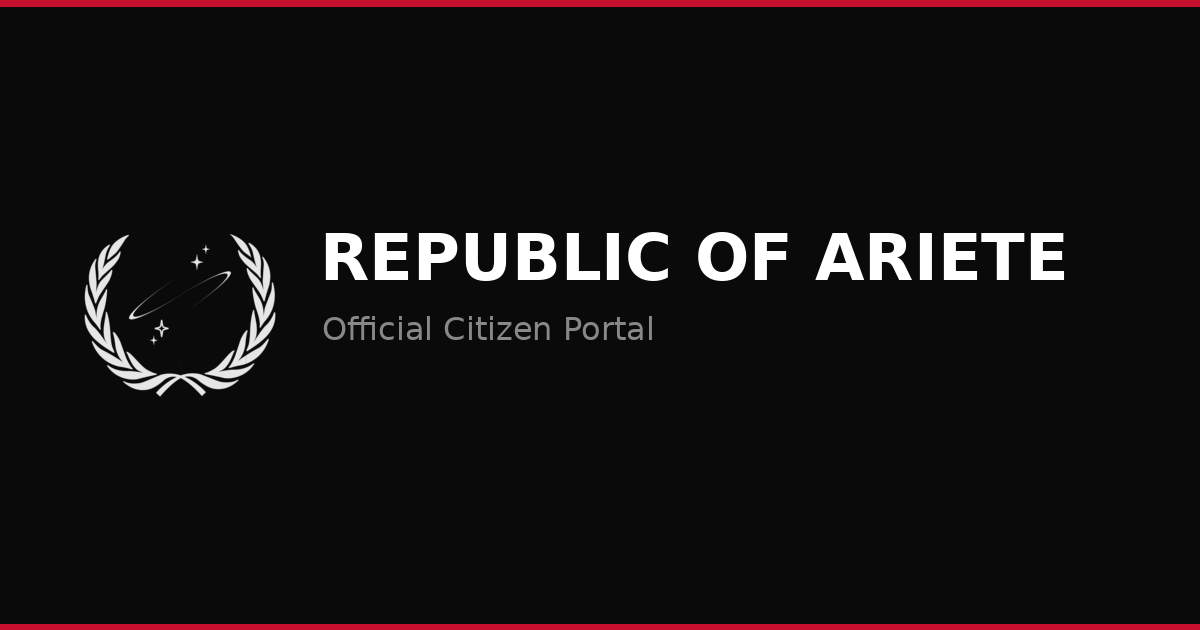
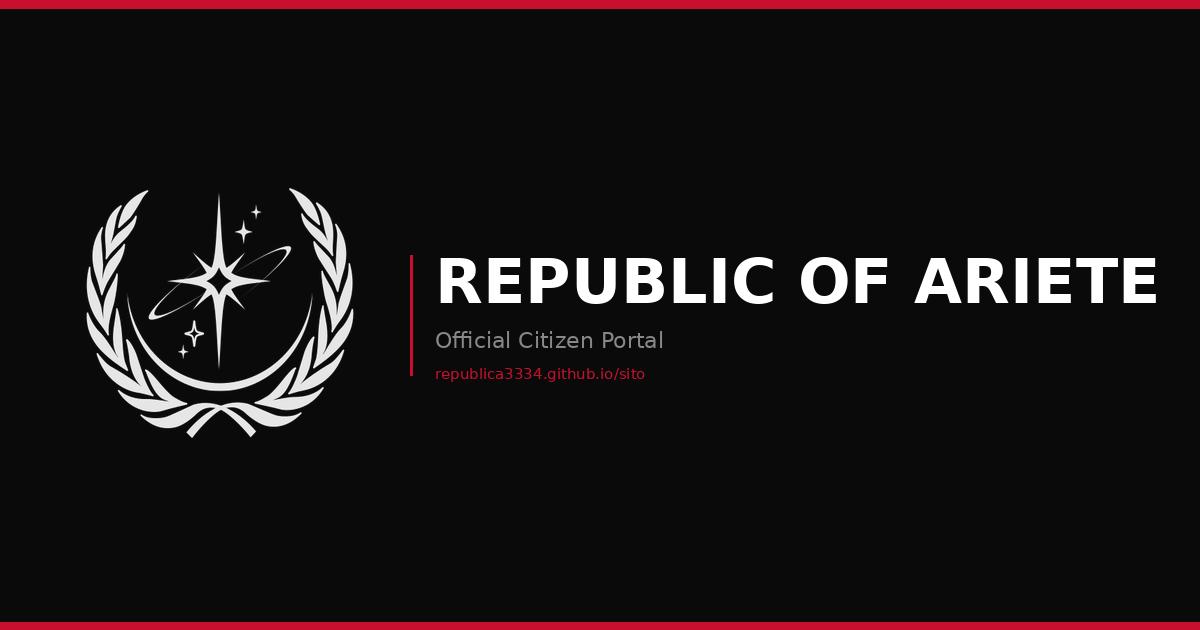
fix: carousel spacing + emblem scale + preview.png emblem complete

Changed region(s): [[0.0617, 0.3016, 0.9867, 0.6937], [0.0, 0.9651, 1.0, 0.9952], [0.0, 0.0, 1.0, 0.0302]]

diff --git a/GOVERN_1.HTM b/GOVERN_1.HTM
@@ -150,7 +150,7 @@
     }
 
     .hero-content {
-      padding: 5rem 3rem 6rem 4rem;
+      padding: 8rem 3rem 6rem 4rem;
       position: relative;
       z-index: 2;
     }
@@ -802,7 +802,7 @@
 
   <div class="hero-emblem" style="position:relative;z-index:2;">
     <div class="hero-emblem-wrap">
-      <img src="svgs/icone/republica/1.svg" class="hero-emblem-svg" id="heroEmblem" alt="Emblema della Repubblica di Ariete" style="opacity:1;">
+      <img src="svgs/icone/republica/1.svg" class="hero-emblem-svg" id="heroEmblem" alt="Emblema della Repubblica di Ariete" style="opacity:1;transform:scale(0.85);">
     </div>
   </div>
 </section>
@@ -818,6 +818,7 @@
       btn2: {label:'Learn About the Republic', href:'government.html'},
       emblem: 'svgs/icone/republica/1.svg',
       embleminvert: false,
+      emblemScale: 0.85,
       bg: 'radial-gradient(ellipse at 70% 50%, #1a0a0a 0%, #0a0a0a 60%)'
     },
     {
@@ -828,6 +829,7 @@
       btn2: {label:'View All Branches', href:'ground-forces.html'},
       emblem: 'svgs/icone/ministeri/difesa.svg',
       embleminvert: true,
+      emblemScale: 1.1,
       bg: 'radial-gradient(ellipse at 70% 50%, #0d1035 0%, #080810 60%)'
     },
     {
@@ -909,6 +911,7 @@
         '<a href="'+s.btn2.href+'" class="btn-outline">'+s.btn2.label+'</a>';
       emblem.src = s.emblem;
       emblem.style.filter = s.embleminvert ? 'invert(1)' : '';
+      emblem.style.transform = s.emblemScale ? 'scale('+s.emblemScale+')' : 'scale(1)';
       bg.style.background = s.bg;
       buildDots();
       // Step 3: fade back in